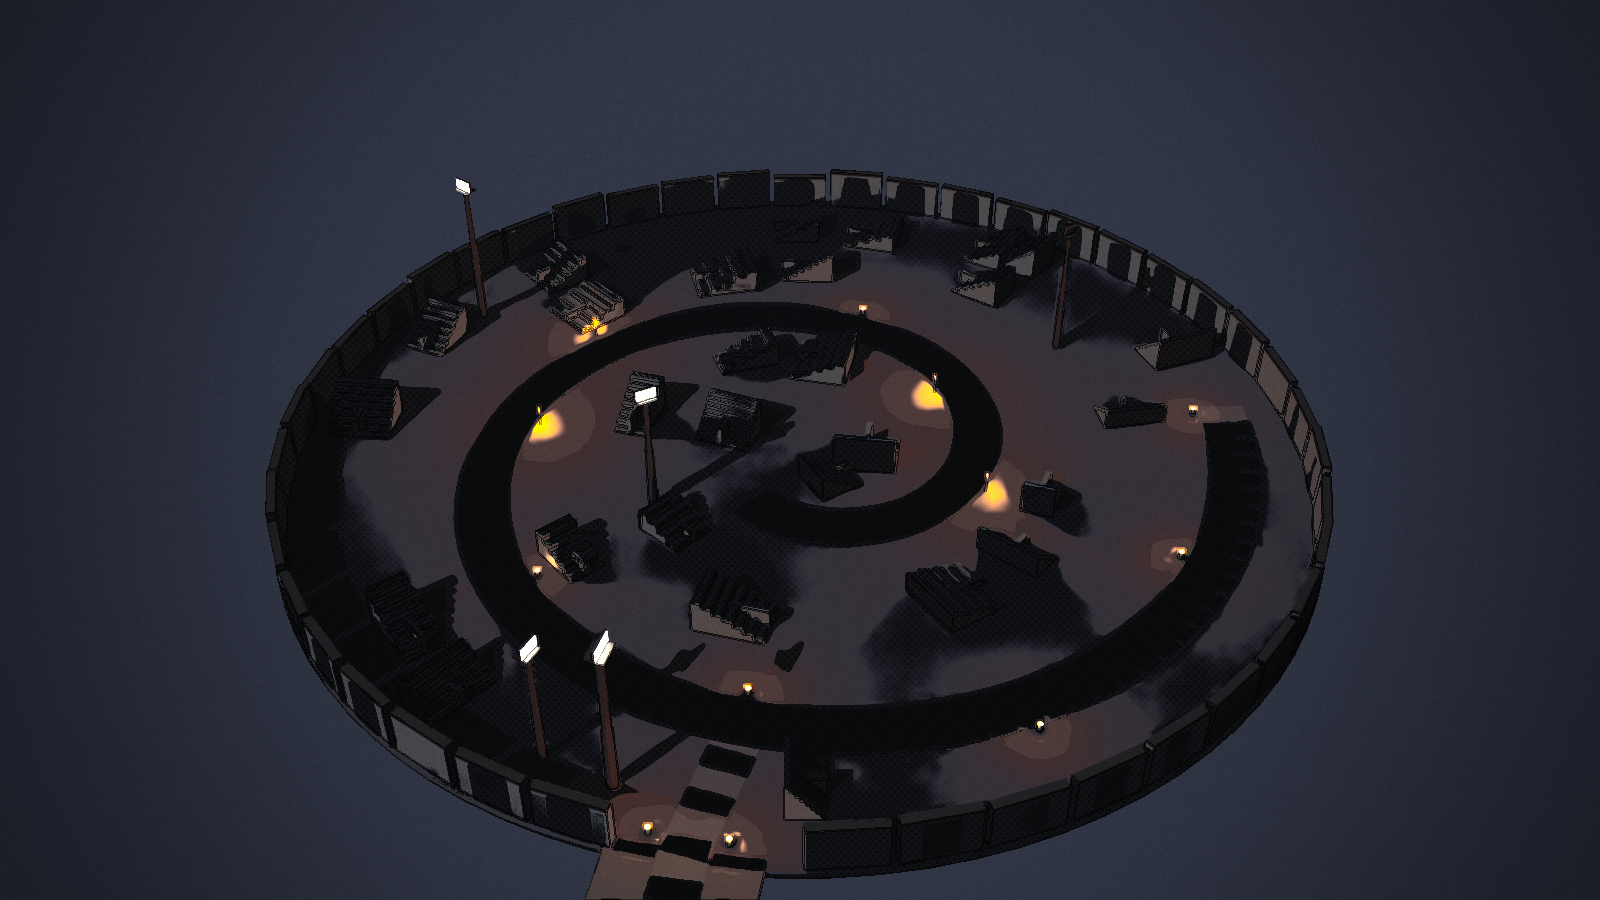
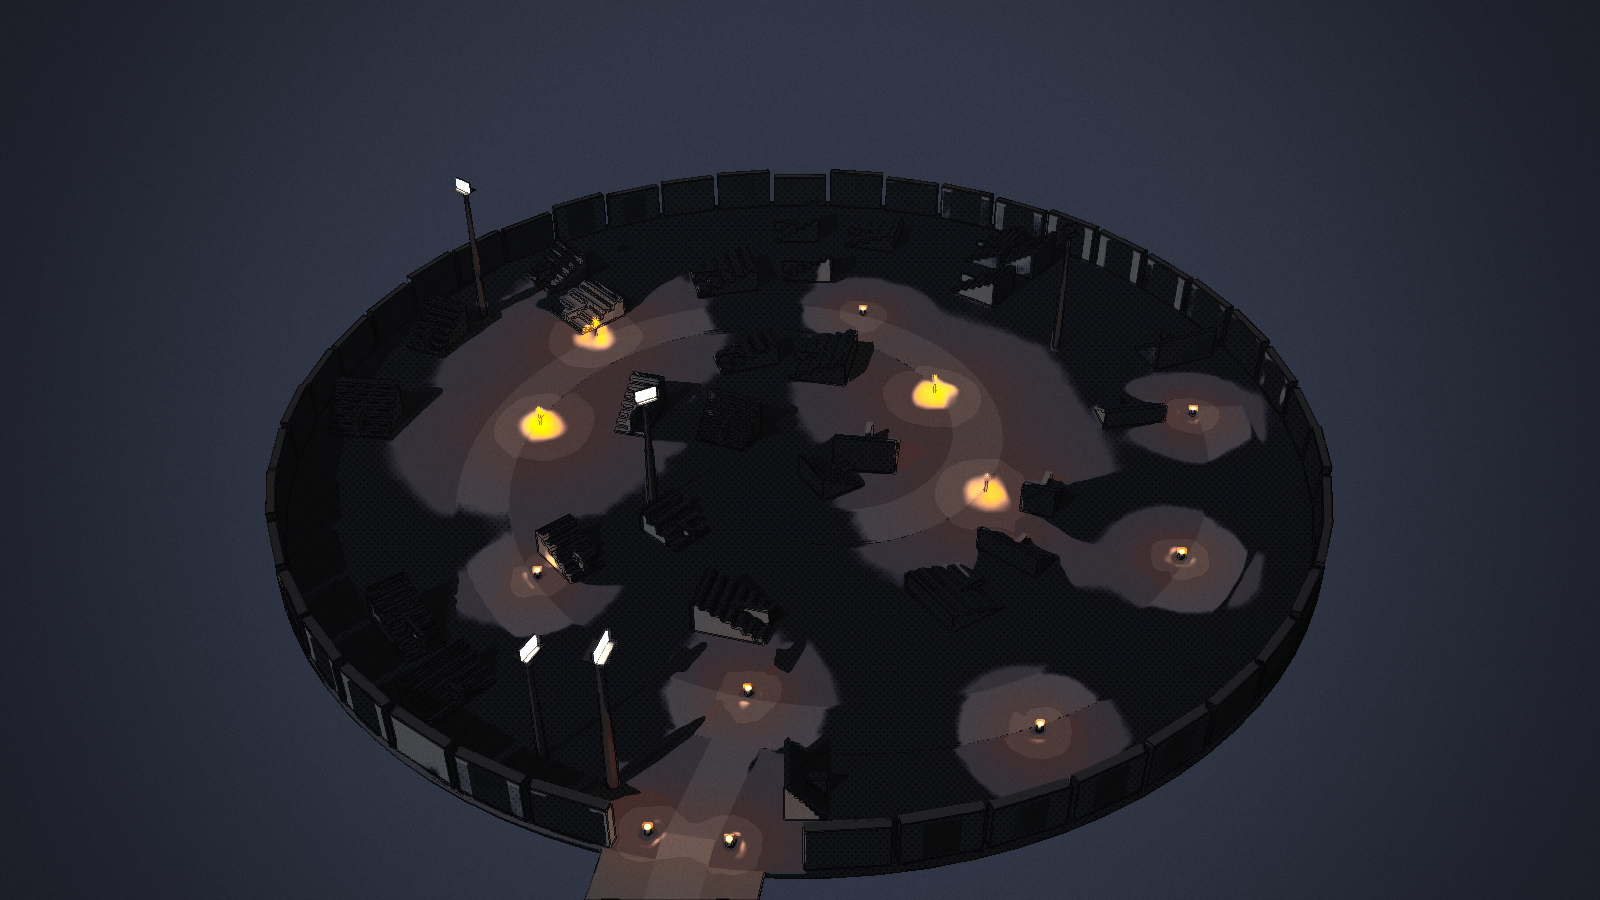
Maps in 3D 5: the notes, and the arena's view
CLAUDE.md gains "The maps in 3D"; the builder's docstring the light's end
and the one-plane rule. 13 of 13 sabotages caught.

Claude-Session: https://claude.ai/code/session_01PaUsieAzVn846zAe5Yo99k

diff --git a/projects/saud-fighter-ue5/Tools/blender/build_map_scenes.py b/projects/saud-fighter-ue5/Tools/blender/build_map_scenes.py
@@ -58,10 +58,18 @@ THE NIGHT'S LIGHT. A fire's power is 4 pi I times the moon's own light on
 the ground (build_souq's NIGHT: I is its pool's intensity), the way the
 engine sizes a fire's candela against WORLD_RIG's lux -- so a fire stands to
 the moon here as it does in the game. (The souq's own scene sizes its fires
-against its 24-degree render moon; WORLD_RIG's is 38 degrees up.) The
-preview's exposure is the world's: lit starts at twice the moon on open
-ground (anime_preview KEY_OVER_MOON, build_world MOON_TONE), on the island
-too, which has no fire.
+against its 24-degree render moon; WORLD_RIG's is 38 degrees up.) And each
+light ends where the engine ends it: spawn_night's attenuation radius,
+three pools out, with the engine's window on the falloff (_engine_falloff);
+Cycles' own point light never ends. The preview's exposure is the world's:
+lit starts at twice the moon on open ground (anime_preview KEY_OVER_MOON,
+build_world MOON_TONE), on the island too, which has no fire.
+
+ONE PLANE, ONE TOP. The plan lays its streets in boxes that overlap the
+next on one plane; an engine's depth test hides that, Cycles' shadow rays
+do not, and the look cut every overlap into a dark ladder. A paving piece
+is lifted a millimetre a level, the least no overlapping piece has
+(paving_levels, _unshare): render-only.
 
 THE AIR, AND HOW FAR AWAY. The look's air and its line fade are lengths for
 the game's camera, which stands FIGHT_VIEW_M from what it frames: drawn as
@@ -75,10 +83,12 @@ here; the game's air is the look's.
 CHECKED (--check, on the saved scenes; --bite breaks each once):
   - every piece the plan places is in its scene: per district, the
     primitives, the souq's rows, the city's sectors; the animals and their
-    parts; the boat; every fire and lantern light; the prologue's ten;
-    the island's three props and every plant (instance by instance, mesh
-    and place), its ground equal to the heightmap at every vertex, the sea;
-  - each district's pieces lie round its middle, inside its reach;
+    parts; the boat; every fire and lantern light, each ending where the
+    engine ends it; the prologue's ten; the island's three props and every
+    plant (instance by instance, mesh and place), its ground equal to the
+    heightmap at every vertex, the sea;
+  - each district's pieces lie round its middle, inside its reach, and no
+    two overlapping tops share a plane;
   - every camera has its target inside the middle 80 % of its frame, and
     the first thing it sees along that line is near the target, not
     something in front of it;
@@ -93,7 +103,10 @@ part: the island level's sea is an engine plane with no material of its own
 and the open world's animals are engine shapes with none either (the engine
 would draw both in its default material; here the sea is the world's water
 colour and the animals their species colour through the world's weathering);
-the prologue's posts are drawn upright, where its Rotator(0, yaw, 0) would
+the stone island's last beach step tops out at its plateau's own height,
+so the engine would z-fight the two over the whole plateau (here the step
+is drawn 5 mm under); the prologue's posts are drawn upright, where its
+Rotator(0, yaw, 0) would
 stand them on their sides (CLAUDE.md, "Known, not fixed"), and its cubes in
 a plain grey for the engine's default material; the stone island in the
 world has no water surface (its shallows are its seabed, painted as water);

diff --git a/projects/saud-fighter-ue5/CLAUDE.md b/projects/saud-fighter-ue5/CLAUDE.md
@@ -4939,6 +4939,122 @@ there), so the boat stands over it. Found on the way, not touched:
 and every normal map the Blender tools bake is OpenGL (green up) where Unreal
 reads DirectX -- the island's are written DirectX.
 
+## The maps in 3D -- 2026-10-03
+
+Asked as "make 3d view scene for all maps", settled with the author as:
+Blender scenes you can open and orbit, and rendered views of them; every
+playable map -- the open world whole and each of its nine districts, the
+prologue's gym and the monkey island; in the game's look (the night, the
+dark anime, the System's style). `Tools/blender/build_map_scenes.py` is new.
+
+**The scenes** (`Tools/blender/scenes/`), each the level its own builder
+makes, placed from that builder's own plan -- nothing here decides where
+anything stands, and nothing stands in a scene that the level does not put
+there:
+
+- `World.blend` (3.5 MB) -- `L_AlHalqa_World` from `build_world.plan()`: the
+  nine districts and the roads, every primitive in its theme's colour (the
+  editor's `MI_World_<Theme>_<role>`; a fire post capped in embers as the
+  editor caps it); the souq's own meshes on its 715 rows; the city's 56
+  sector meshes at their districts' middles, the 861 plots' cubes under
+  them left out as the editor hides them; the stone island's ground,
+  rocks, ruins and jetties, its 94 animals part by part (1,102 parts) and
+  the boom at its jetty; the night -- 220 lights, every fire and lit
+  lantern where `spawn_night` puts it -- under `WORLD_RIG`'s moon. The
+  world street's slot carries no maps in its FBX; it takes the flagstone
+  set from disk, as the editor's `surfaces.py` gives it.
+- `Prologue.blend` -- `L_Prologue` from `build_prologue.plan()`: the floor,
+  the cage's seven posts, the two stands, its own sun.
+- `MonkeyIsland.blend` (2 MB) -- `L_MonkeyIsland` from
+  `build_monkey_island_level.plan()`: the landscape made by Geometry Nodes
+  at load from the 16-bit heightmap, a vertex every 2 m (4,068,289), so the
+  file stays small; painted by the five 4K layers through the weightmaps
+  (the editor's `M_MonkeyIsland_Ground`, a tile every 4 m, the DirectX
+  normals turned over for Blender); the sea plane; the temple, the pier,
+  the boat; the 9,156 plants, instanced by Geometry Nodes from their rows.
+
+Each keeps its views as cameras (`Cam_<view>`); the textures are linked by
+relative path, not packed.
+
+**The views** (`Docs/renders/map-<view>-anime.png`, all fifteen on
+`maps-3d.png`, in the order a player meets them): the gym from over the
+near stand's corner; the ring whole; each district from over its outside
+edge looking in across it; the island whole, from over the sea off its
+west-north-west; its landing from off the pier's end; its third clearing
+from the trail coming up to it; its temple from the gate. Each is rendered
+by `anime_preview.render_scene` and drawn through both anime materials.
+
+**The choices, each only here:**
+- **A map view's air.** The look's air and its line fade are lengths for
+  the game's camera, about 12 m from what it frames; drawn as they are from
+  a camera hundreds of metres up, everything is fog and every line faded.
+  A view k times as far draws its air, its line fade and the moon's ground
+  k times as deep.
+- **A fire against the world's moon.** A fire's power is 4 pi I times the
+  moon's light on the ground, as the engine sizes its candela against
+  `WORLD_RIG`'s lux, so a fire stands to the moon as in the game (the
+  souq's own scene sizes its fires against its 24-degree render moon;
+  `WORLD_RIG`'s is 38 up).
+- **A light ends where the engine ends it.** `spawn_night` gives a fire an
+  attenuation radius of three pools and a lantern three of its own, and
+  the engine windows the inverse-square falloff to nothing there; Cycles'
+  point light never ends, and on the first renders the tails of a
+  district's fires, summed, lifted the ground between the pools past the
+  lit tone. Each light carries the engine's window,
+  saturate(1 - (d/R)^4)^2 on its Ray Length (measured against the formula
+  on a plane), R read from `spawn_night`'s own source.
+- **No two overlapping tops on one plane.** The plan lays a street in boxes
+  each half a street's width longer than its step (`build_world.paving`),
+  so every box overlaps the next on one plane, and a road's ground overlaps
+  the discs it joins. An engine's depth test hides that; Cycles' shadow
+  rays caught every overlap and the look cut them into a dark ladder down
+  every street. A paving piece is lifted a millimetre a level -- the least
+  level no overlapping piece has -- and a road's ground goes 5 mm down.
+  Render-only.
+- **The exposure** is the world's (lit from twice the moon on open ground,
+  `MOON_TONE`), on the island too; the prologue, lit by its own day sun,
+  keeps the preview's stand-in.
+
+What the night looks like from above, read on the renders: the moonlit
+ground is the shadow tone and the fires' pools are lit, so a district is
+its streets' chain of firelit pools on a dark ground; the island whole is
+its jungle's deep tone with the moon on its bare ground and coast -- of
+eleven framings tried, the one from the west-north-west reads most. The
+close island views read best.
+
+**Checked** (`--check` on the saved scenes, and after every build; each
+check broken once by `--bite`, 13 of 13 caught): every piece the plan places is in
+its scene, district by district -- the primitives, the souq's rows, the
+city's sectors, the animals and their parts, the boat, the ember beds,
+every fire and lantern light with the engine's end; each district's pieces
+lie round its middle inside its reach; no two overlapping tops share a
+plane; the prologue's ten where the plan puts them; the island's props,
+every plant instance by instance (mesh and place), its ground equal to the
+heightmap at every vertex, its sea; every camera's target inside the
+middle 80 % of its frame and the first thing along the line to it near it.
+And the rendered views: at least 30 % of the frame world, its middle grey
+0.06-0.75, ink on at least 0.3 % of it, and a view of a lit district with
+a pool where a fire out-lights the moon. Every view passes them.
+
+**Seen, not touched** (where the levels and these scenes part): the stone
+island's last beach step tops out at its plateau's own height (both 0 cm,
+`build_island.terrain`), so in the engine the stone and the beach would
+z-fight over the whole plateau -- here the step is drawn 5 mm under; the
+island level's sea is an engine plane with no material of its own, and the
+world's animals are engine shapes with none either -- the engine would draw
+both in its default material; here the sea is the world's water colour and
+the animals their species' colours through the world's weathering. The
+prologue's posts are drawn upright where its `Rotator(0, yaw, 0)` would
+stand them on their sides ("Known, not fixed"), and its cubes one plain
+grey for the engine's default material. The stone island in the world has
+no water surface (its shallows are its seabed, painted as water). The
+parked cars are not here: the Unity tool has never run, so there is no
+mesh to place.
+
+**Not verified:** no engine has built any of the three levels; these are
+Blender's pictures of their plans through the look's numpy mirror, with the
+preview's stand-in exposure.
+
 ## Working rules
 
 - **Don't add things that were not asked for.** Build the requested change and
